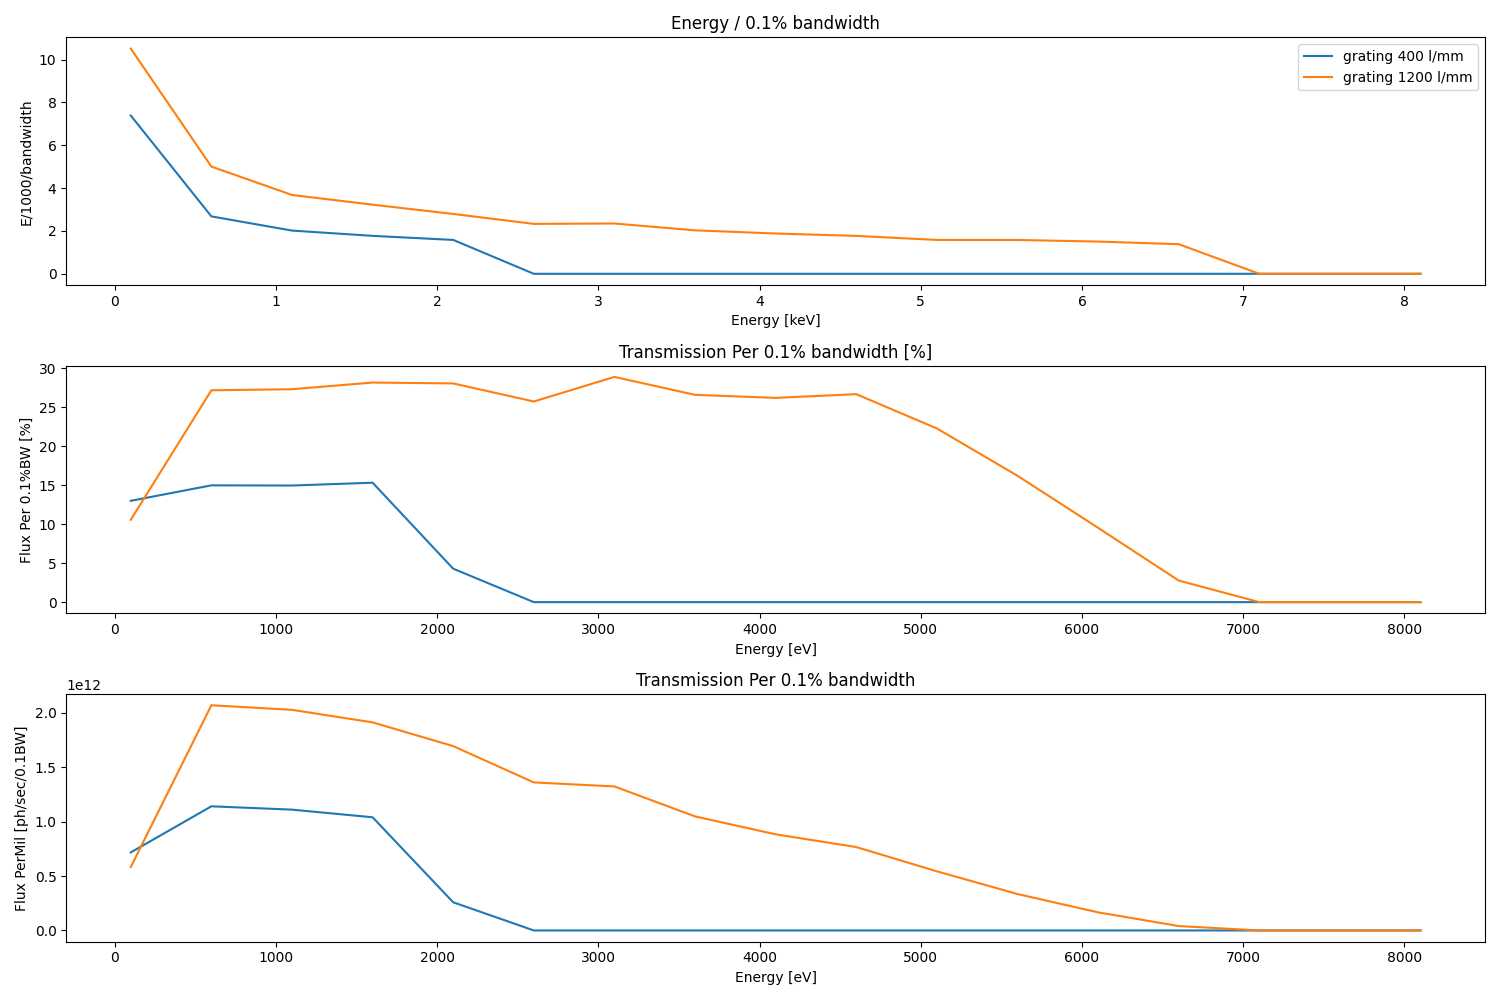
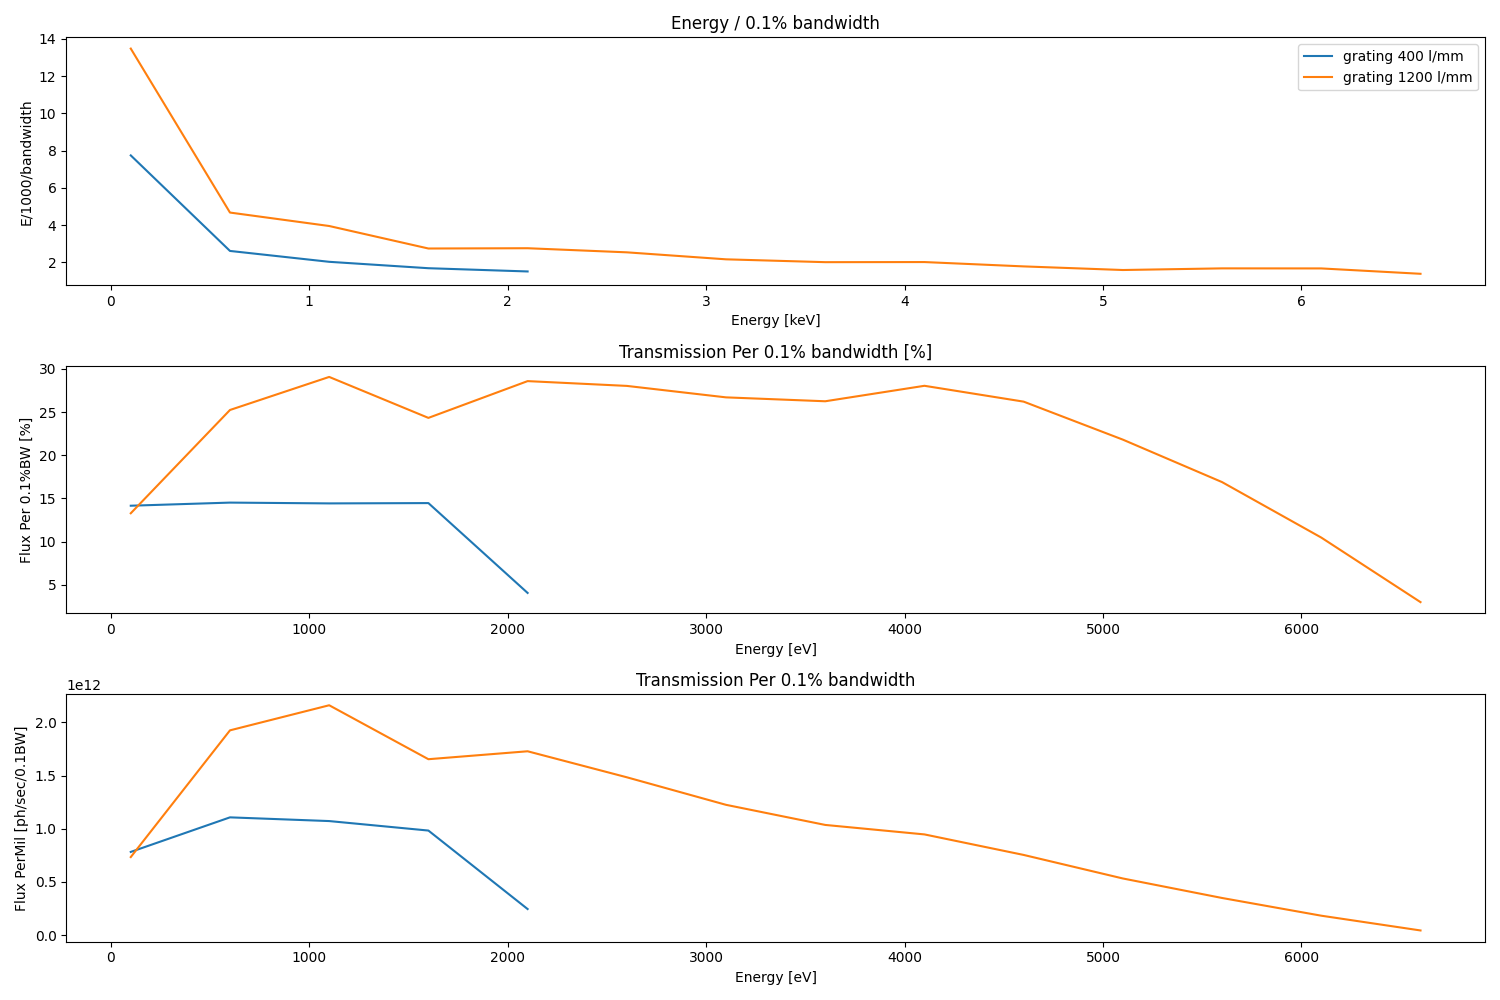
cleanup

diff --git a/examples/example_simulation_noanalyze.py b/examples/example_simulation_noanalyze.py
@@ -13,7 +13,7 @@ beamline = sim.rml.beamline
 
 
 # define the values of the parameters to scan 
-energy    = np.arange(200, 7201,250)
+energy    = np.arange(200, 7201,500)
 SlitSize  = np.array([0.1, 0.2])
 cff       = np.array([2.25])
 nrays     = 5e4
@@ -36,7 +36,7 @@ sim.params=params
 sim.simulation_name = 'test_noAnalyze'
 
 # repeat the simulations as many time as needed
-sim.repeat = 1
+sim.repeat = 2
 
 sim.analyze = False # don't let RAY-UI analyze the results
 sim.raypyng_analysis=True # let raypyng analyze the results

diff --git a/examples/example_simulation_analyze.py b/examples/example_simulation_analyze.py
@@ -43,13 +43,8 @@ sim.exports  =  [{beamline.Dipole:['ScalarElementProperties']},
                 ]
 
 
-# create the rml files
-#sim.rml_list()
-
 #uncomment to run the simulations
-#sim.run(multiprocessing=5, force=True)
 sim.run(multiprocessing=5, force=True)
-#sim.run(force=True)
 
 
 

diff --git a/examples/example_simulation_noanalyze_undulator.py b/examples/example_simulation_noanalyze_undulator.py
@@ -55,6 +55,7 @@ undulator_file_path = os.path.join(this_file_dir,
 undulator = pd.read_csv(undulator_file_path)
 
 sim.undulator_table=undulator
+
 #uncomment to run the simulations
 sim.run(multiprocessing=6, force=True)
 
